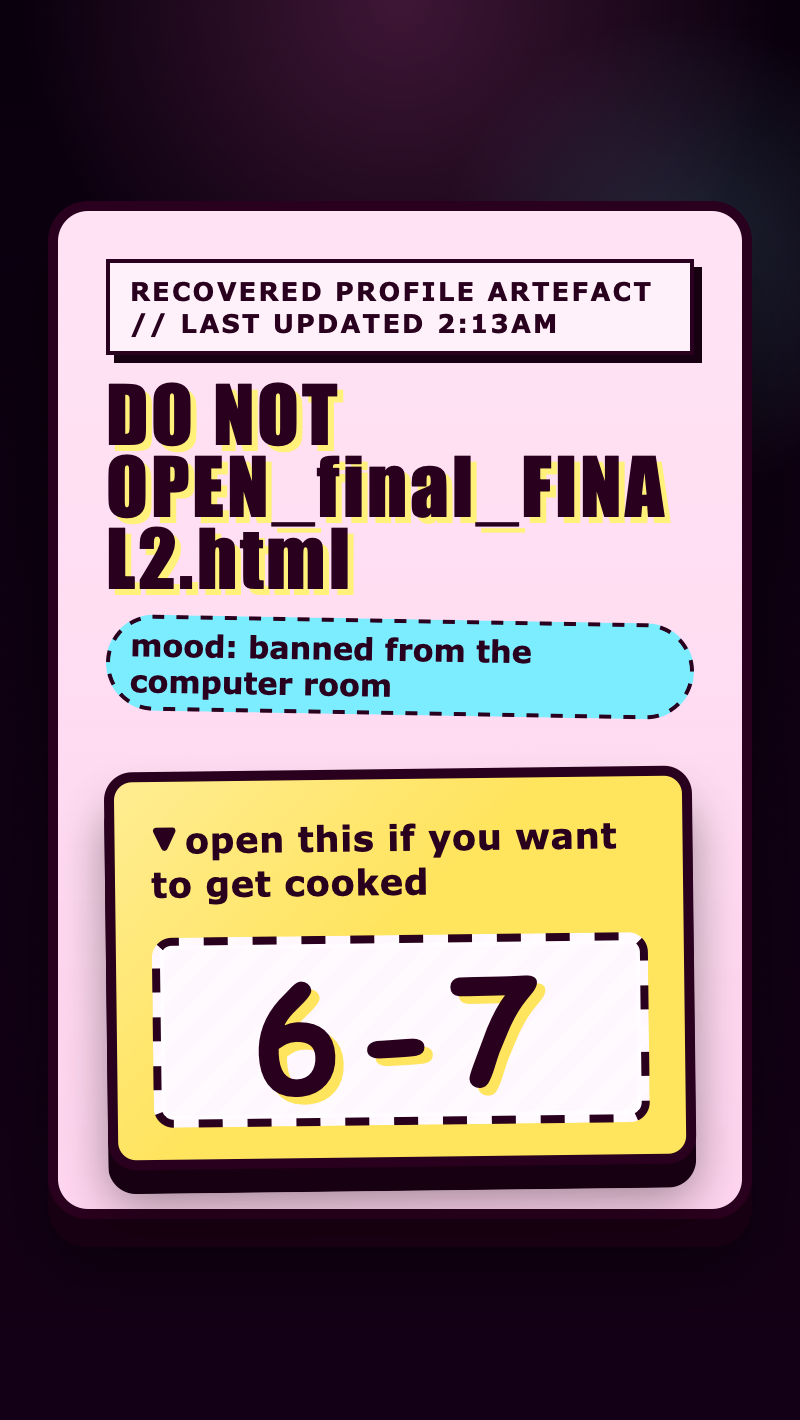
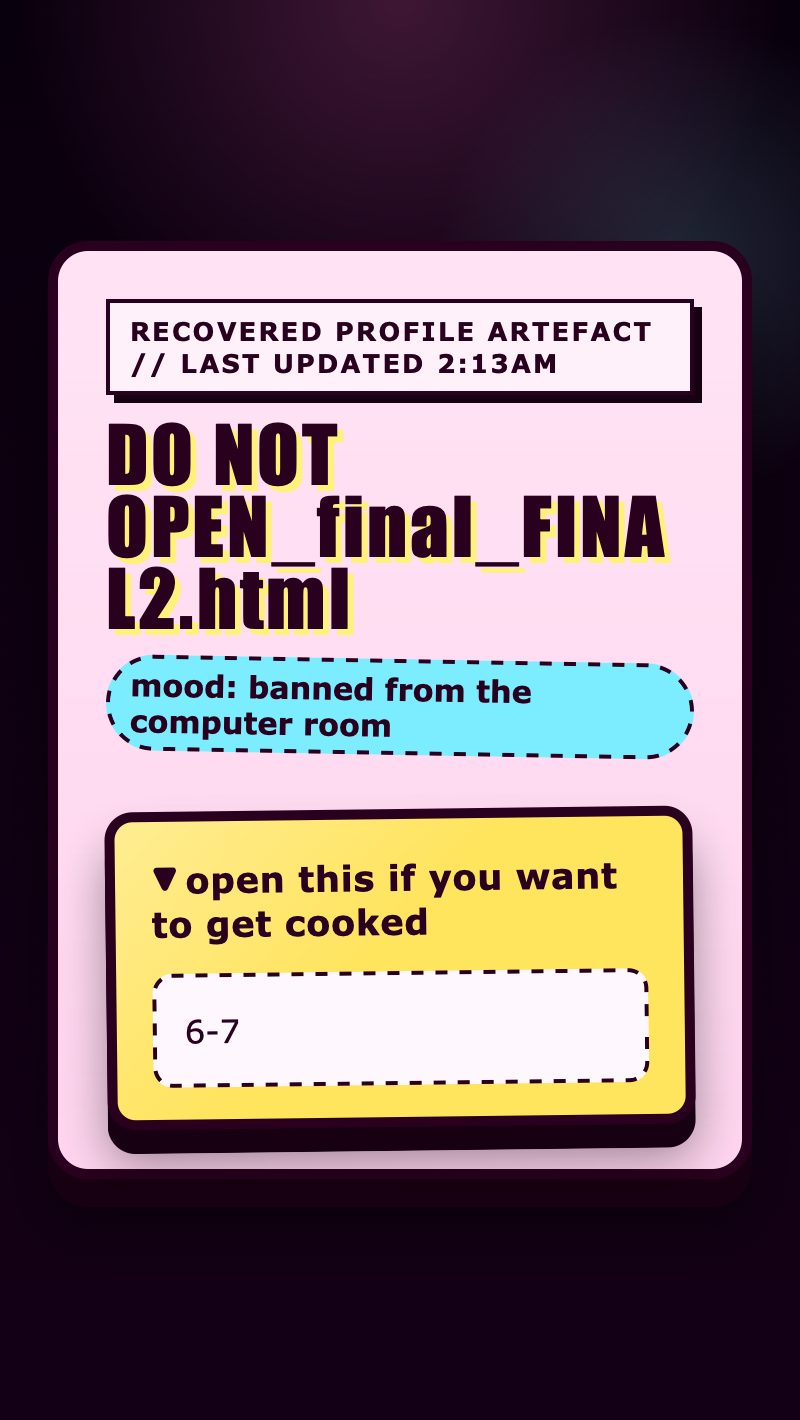
Add styling for the inside panel and hidden message to create a cursed appearance

Changed region(s): [[0.0625, 0.1239, 0.9375, 0.8676]]

diff --git a/en/code/indieweb-forbidden-drawer-starter/style.css b/en/code/indieweb-forbidden-drawer-starter/style.css
@@ -99,6 +99,7 @@ summary {
   font-weight: 800;
 }
 
+/* Simple starter styling for the inside panel. */
 .inside {
   margin-top: 14px;
   padding: 14px;
@@ -108,6 +109,9 @@ summary {
   line-height: 1.6;
 }
 
+/* Simple starter styling for the hidden message. */
 .inside p {
   margin: 0;
 }
+
+/* Add louder .inside and .inside p rules underneath in step 5. */

diff --git a/en/step_4.md b/en/step_4.md
@@ -1,10 +1,10 @@
 <h2 class="c-project-heading--task">Make it look badly famous</h2>
 
-Make the clickable artefact chunkier and more dramatic so opening it feels a bit chaotic.
+Make the outside of the artefact chunkier and more dramatic so opening it feels a bit chaotic.
 
 <h2 class="c-project-heading--explainer">Make this change</h2>
 
-Stay in `style.css` and update the drawer rules. Padding, borders, shadows, and text styling can make the closed widget feel heavy and the revealed message feel like a very bad internet discovery.
+Stay in `style.css` and update the outside drawer rules. Padding, borders, shadows, and text styling can make the closed widget feel heavy before you even open it.
 
 <div class="c-project-tip">
 
@@ -14,11 +14,9 @@ Stay in `style.css` and update the drawer rules. Padding, borders, shadows, and 
 
 <p>`border`, `box-shadow`, and `background` make it look stickered, loud, and messy on purpose.</p>
 
-<p>You can also style `.inside p` so the hidden message looks huge, ugly, and impossible to ignore.</p>
-
 </div>
 
-These rules restyle each part of the widget: the closed drawer, the open state, the clickable summary, the inside panel, and the giant hidden message text.
+These rules restyle the outside of the widget: the closed drawer, the open state, and the clickable summary.
 
 ### Step 1
 
@@ -111,82 +109,10 @@ summary {
 
 Run your code and observe that the summary text on the closed drawer looks louder and more important.
 
-### Step 4
-
-Replace the `.inside` rule with this version.
-
-This rule styles the inside panel that appears after opening. It adds the striped background, thicker border, and more space around the hidden message.
-
-<div class="c-project-code">
-
---- code ---
----
-language: css
-filename: style.css
-line_numbers: true
-line_number_start: 111
-line_highlights: 111-127
----
-.inside {
-  margin-top: 16px;
-  padding: 14px 16px;
-  border: 4px dashed var(--ink);
-  border-radius: calc(var(--corner-size) - 4px);
-  background:
-    repeating-linear-gradient(
-      -45deg,
-      rgba(255, 255, 255, 0.4),
-      rgba(255, 255, 255, 0.4) 8px,
-      transparent 8px,
-      transparent 16px
-    ),
-    var(--inside-bg);
-  box-shadow: inset 0 0 0 2px rgba(255, 255, 255, 0.55);
-  line-height: 1.7;
-}
---- /code ---
-
-</div>
-
-Run your code and observe that the inside area now feels more like a messy warning panel than a plain box.
-
-### Step 5
-
-Replace the `.inside p` rule with this final version.
-
-This rule only styles the hidden paragraph itself. It turns `6-7` into huge ugly text that is impossible to miss.
-
-<div class="c-project-code">
-
---- code ---
----
-language: css
-filename: style.css
-line_numbers: true
-line_number_start: 129
-line_highlights: 129-139
----
-.inside p {
-  margin: 0;
-  font-family: "Comic Sans MS", Impact, fantasy;
-  font-size: clamp(4rem, 18vw, 7rem);
-  font-weight: 900;
-  line-height: 0.82;
-  letter-spacing: 0.08em;
-  text-align: center;
-  text-shadow: 4px 4px 0 var(--drawer-open-bg);
-  transform: rotate(-2deg);
-}
---- /code ---
-
-</div>
-
-Run your code and observe that the hidden message now looks huge, warped, and deeply embarrassing.
-
 ## Now run your code
 
-The widget should now feel chunkier, louder, and more chaotic when you open it, and the hidden message should look huge and ugly.
+The closed drawer and the warning label should now feel much louder, while the inside panel still looks fairly plain for now.
 
 <div class="c-project-output">
-  <img src="images/step_4_output.png" alt="Expected project output after step 4 showing the final cursed-profile artefact with a giant ugly hidden message.">
+  <img src="images/step_4_output.png" alt="Expected project output after step 4 showing the louder drawer styling before the inside panel gets its final ugly makeover.">
 </div>

diff --git a/en/step_5.md b/en/step_5.md
@@ -1,0 +1,101 @@
+<h2 class="c-project-heading--task">Make the inside look cursed</h2>
+
+Turn the inside panel and the hidden message into the ugliest part of the artefact.
+
+<h2 class="c-project-heading--explainer">Make this change</h2>
+
+Stay in `style.css` and add louder inside rules underneath the simple starter ones. This is where the opened panel stops looking tidy and starts looking like a truly bad internet discovery.
+
+<div class="c-project-tip">
+
+<h3>Tip</h3>
+
+<p>`border-radius` can make the inside box feel more sticker-like or more sharp-edged.</p>
+
+<p>`text-shadow`, `font-size`, and `transform` can make the hidden message feel more ridiculous without changing the words.</p>
+
+<p>`--inside-bg` can be pale peach, dirty white, washed-out cyan, or any other suspicious colour you chose in step 3.</p>
+
+</div>
+
+These new rules go underneath the simple starter versions in `style.css`. Because they come later in the file, they take over and give the inside panel its final cursed look.
+
+### Step 1
+
+Underneath the starter rules, add a new `.inside` rule like this.
+
+This rule styles the inside panel that appears after opening. It adds the striped background, thicker border, and more space around the hidden message.
+
+<div class="c-project-code">
+
+--- code ---
+---
+language: css
+filename: style.css
+line_numbers: true
+line_number_start: 119
+line_highlights: 119-135
+---
+.inside {
+  margin-top: 16px;
+  padding: 14px 16px;
+  border: 4px dashed var(--ink);
+  border-radius: calc(var(--corner-size) - 4px);
+  background:
+    repeating-linear-gradient(
+      -45deg,
+      rgba(255, 255, 255, 0.4),
+      rgba(255, 255, 255, 0.4) 8px,
+      transparent 8px,
+      transparent 16px
+    ),
+    var(--inside-bg);
+  box-shadow: inset 0 0 0 2px rgba(255, 255, 255, 0.55);
+  line-height: 1.7;
+}
+--- /code ---
+
+</div>
+
+Run your code and observe that the inside area now feels more like a messy warning panel than a plain box.
+
+### Step 2
+
+Underneath your new `.inside` rule, add a new `.inside p` rule like this.
+
+This rule only styles the hidden paragraph itself. It turns `6-7` into huge ugly text that is impossible to miss.
+
+<div class="c-project-code">
+
+--- code ---
+---
+language: css
+filename: style.css
+line_numbers: true
+line_number_start: 137
+line_highlights: 137-147
+---
+.inside p {
+  margin: 0;
+  font-family: "Comic Sans MS", Impact, fantasy;
+  font-size: clamp(4rem, 18vw, 7rem);
+  font-weight: 900;
+  line-height: 0.82;
+  letter-spacing: 0.08em;
+  text-align: center;
+  text-shadow: 4px 4px 0 var(--drawer-open-bg);
+  transform: rotate(-2deg);
+}
+--- /code ---
+
+</div>
+
+Run your code and observe that the hidden message now looks huge, warped, and deeply embarrassing.
+
+## Now run your code
+
+The inside panel should now feel much messier, and the hidden message should look huge and ugly when you open the drawer.
+
+<div class="c-project-output">
+  <img src="images/step_5_output.png" alt="Expected project output after step 5 showing the final cursed-profile artefact with a giant ugly hidden message.">
+</div>
